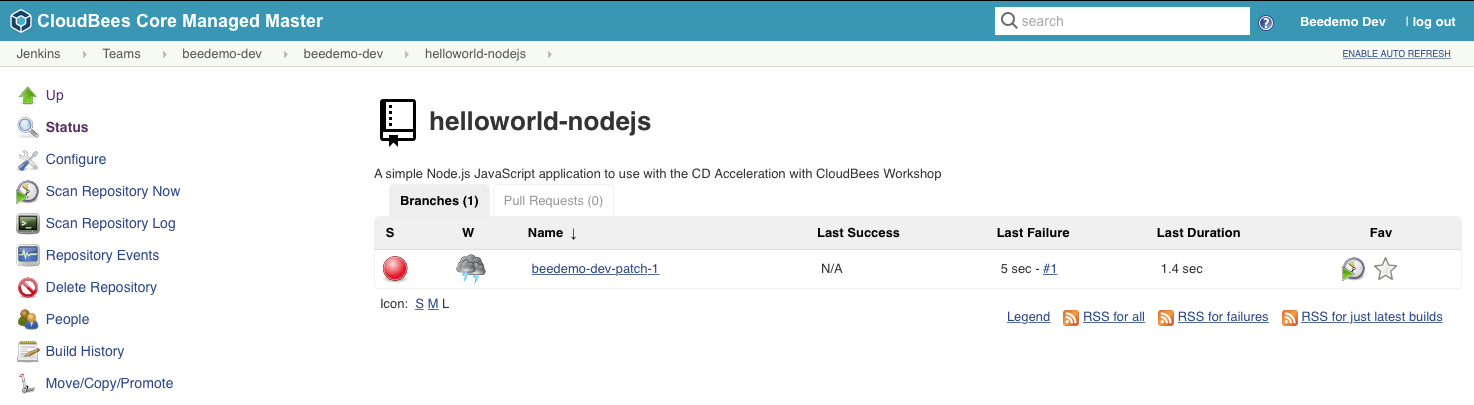
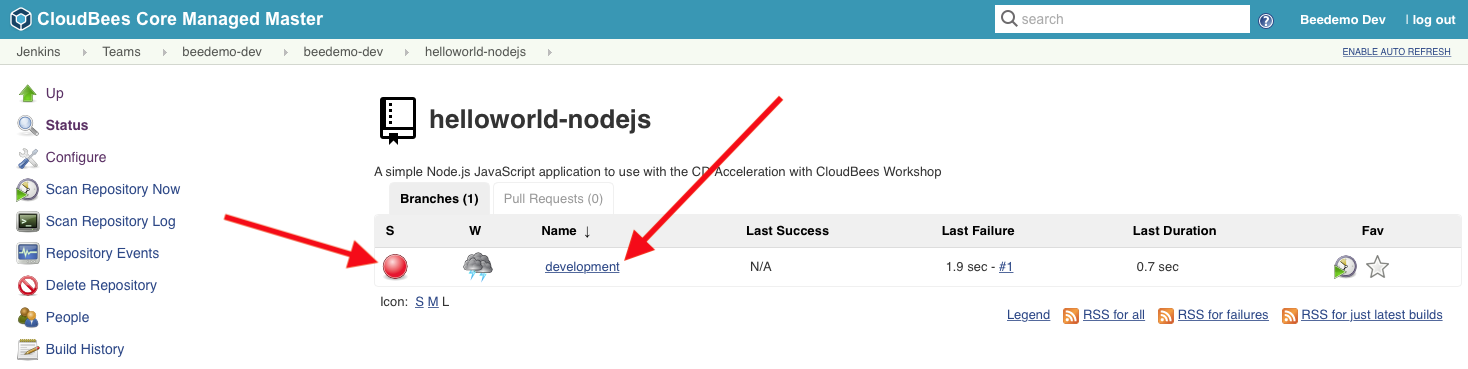
updated basic syntax exercise

diff --git a/declarative-basics.md b/declarative-basics.md
@@ -43,8 +43,8 @@ In this exercise we will add a GitHub server configuration to enable Jenkins to 
   - **API URL**: *https://api.github.com* (default)
   - **Credentials**: Select the **Secret text** credential your created above
   - **Manage hooks**: checked
-5. Click the **Test connection** button to verify your configuration.
-6. Click the **Save** button <p><img src="img/intro/github_global_config_save.png" width=850/>
+5. Click the **Test connection** button to verify your configuration <p><img src="img/intro/github_global_config_save.png" width=850/>
+6. Click the **Save** button
 
 ## Create a Multibranch Pipeline Project
 
@@ -76,8 +76,8 @@ pipeline {
 
 }
 ```
-15. At the bottom of the screen enter a commit message, select the **Create a new branch for this commit and start a pull request.** and click the **Propose new file** button to save it your repository.  <p><img src="img/intro/multibranch_jenkinsfile_commit.png" width=850/>
-16. Navigatd back to your new Multibranch project in Jenkins and refresh the page. You should have a new job that failed <p><img src="img/intro/multibranch_new_job_failed.png" width=850/>
+15. At the bottom of the screen enter a commit message, select the **Create a new branch for this commit and start a pull request.**, name the branch **devevlopment** and click the **Propose new file** button to save it your repository.  <p><img src="img/intro/multibranch_jenkinsfile_commit.png" width=850/>
+16. Navigatd back to your new Multibranch project in Jenkins and refresh the page. You should have a new failed job based on the branch you just added <p><img src="img/intro/multibranch_new_job_failed.png" width=850/>
 
 ## Basic Declarative Syntax Structure
 
@@ -99,10 +99,7 @@ WorkflowScript: 1: Missing required section "agent" @ line 1, column 1.
 
 [Declarative Pipelines](https://jenkins.io/doc/book/pipeline/syntax/#declarative-pipeline) must be enclosed within a `pipeline` block - which we have. But Declarative Pipelines must also contain a top-level `agent` declaration, and must contain exactly one `stages` block at the top level. Typically, the `stages` block must have at least one `stage` block but can have an unlimited number of additional `stage` blocks. Each `stage` block must have exactly one `steps` block. 
 
-1. We will use the GitHub file editor to update the `nodejs-app/Jenkinsfile.template` file in your forked **custom-marker-pipelines** repository. Navigate to the `custom-marker-pipelines/nodejs-app/Jenkinsfile.template` file in the **master** branch of your forked repository and then click on the pencil icon in the upper right to edit that file. <p><img src="img/intro/basic_snytax_edit_github.png" width=850/>
-
-> NOTE: Remember we are using a CloudBees Core feature that allows us to specify a Pipeline script from a different source code repository than the one where the application code is committed. This may be a bit confusing at first as commits to your *template* will not trigger a build via GitHub webhooks because we aren't actually making a commit to the application repository.
-
+1. We will use the GitHub file editor to update the `Jenkinsfile` file in your forked **helloworld-nodejs** repository. Navigate to the `Jenkinsfile` file in the **development** branch of your forked repository and then click on the pencil icon in the upper right to edit that file. <p><img src="img/intro/basic_snytax_edit_github.png" width=850/>
 2. Replace the contents of that file with the following Declarative Pipeline:
 
 ```groovy
@@ -118,19 +115,12 @@ pipeline {
   }
 }
 ```
-
-3. Add a commit description and then click the **Commit Changes** button with the default selection of *Commit directly to the master branch* selected.
+<p><img src="img/intro/basic_snytax_commit_to_development.png" width=850/><p>
+3. Add a commit description and then click the **Commit Changes** button with the default selection of *Commit directly to the `development` branch* selected.
 4. Navigate back to the **helloworld-nodejs** *master* branch job on your Team Master and click the **Build Now** button in the left menu. <p><img src="img/intro/basic_syntax_build_now.png" width=550/>
 5. Your job will complete successfully. Note some things from the log:
   
-   i. The custom marker script - `nodejs-app/Jenkinsfile.template` - is being pulled from your forked **custom-marker-pipelines** forked repository and not from the **helloworld-nodejs** repository:
-
-  ```
-  ...
-  Obtained nodejs-app/Jenkinsfile.template from git https://github.com/cd-accel-beedemo/custom-marker-pipelines.git
-  ...
-  ```
-
+   i. The `Jenkinsfile` is being pulled from the **development** branch of your forked **helloworld-nodejs** repository.
    ii. The agent is being provisioned from a Kubernetes Pod Template (more on this in the next lesson):
 
   ```
@@ -139,7 +129,7 @@ pipeline {
   ...
   ```
 
-   iii. Your fork of the **helloworld-nodejs** repository is being checked out, even though you did not put any steps in the `nodejs-app/Jenkinsfile.template` to do so:
+   iii. Your fork of the **helloworld-nodejs** repository is being checked out, even though you did not put any steps in the `Jenkinsfile` to do so:
 
   ```
   ...
@@ -157,7 +147,7 @@ openjdk version "1.8.0_171"
 ...
 ```
   
-> **NOTE:** You may have noticed that your Pipeline GitHub repository is being checked out even though you didn't specify that in your Jenkinsfile. Declarative Pipeline checks out source code by default using the `checkout scm` step. Furthermore, this automatic checkout will occur in every `stage` that uses a different agent.
+> **NOTE:** You may have noticed that your Pipeline GitHub repository is being checked out even though you didn't specify that in your Jenkinsfile. Declarative Pipeline checks out source code by default without the need to explicitly include the `checkout scm` step. Furthermore, this automatic checkout will occur in every `stage` that uses a different agent.
 
 ## The options Directive
 
